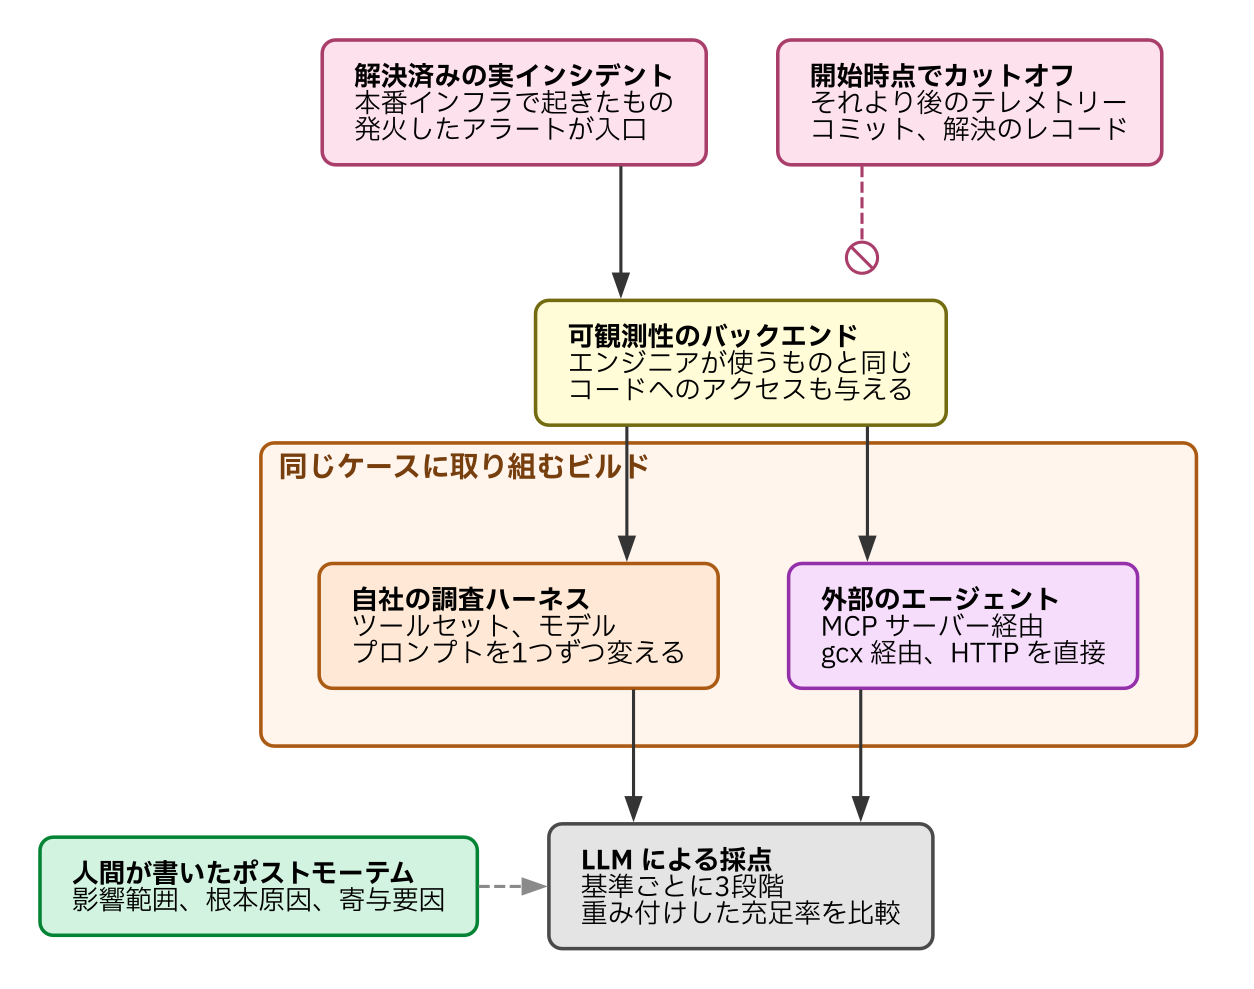
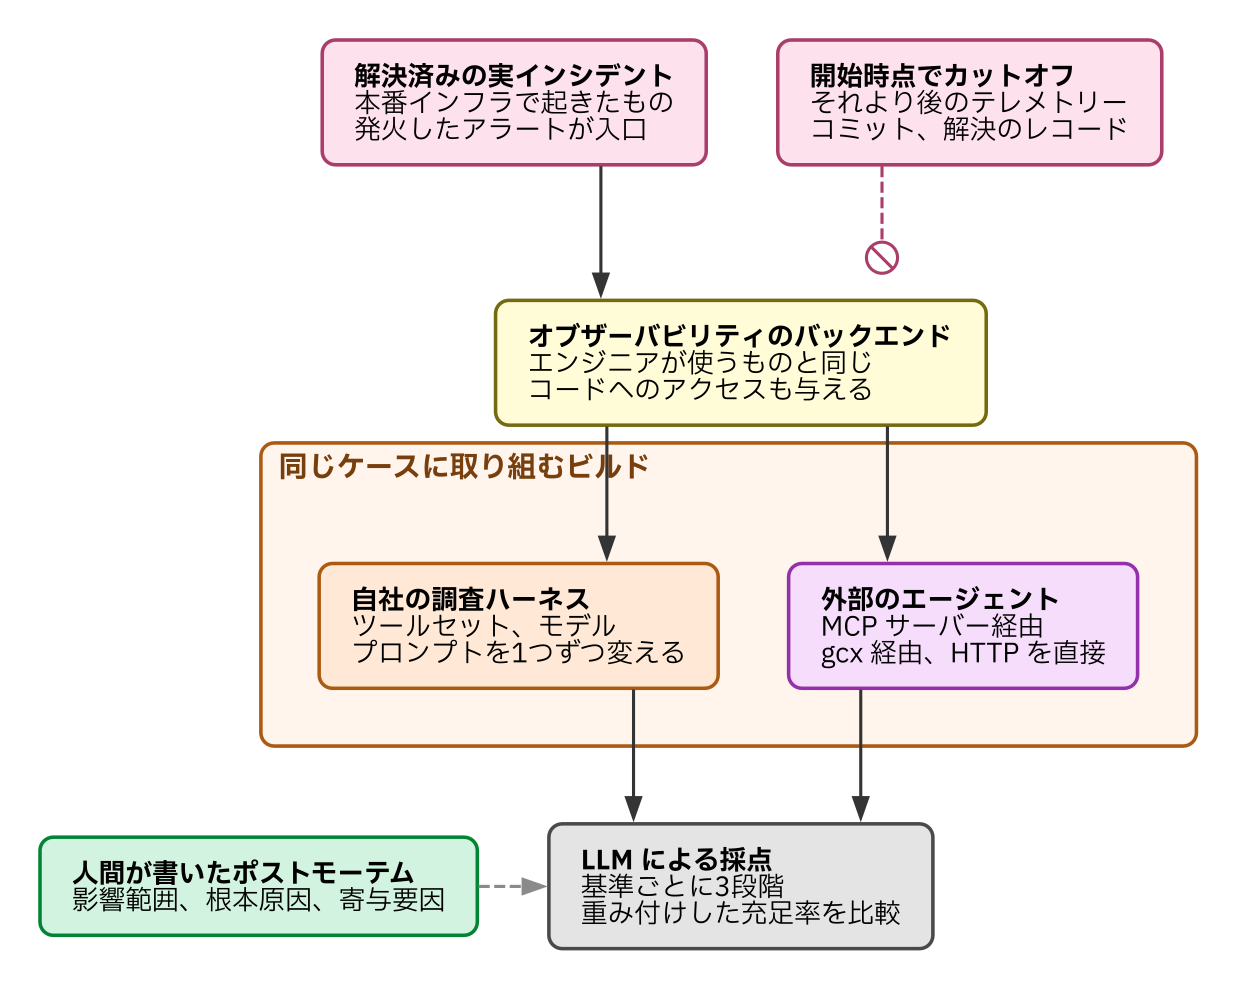
fix(articles): タイトルを技術領域が分かる形に変え語彙と文体を直す
- タイトルを技術領域が分かる形へ:
  記事1「オブザーバビリティのAIエージェントをどう評価するか」
  記事2「インシデント調査エージェントの品質を動かしたのはツールとプロンプトだった」
- 語彙: 可観測性 → オブザーバビリティ（本文6件、図1件）
- 倒置法の除去: 「同じ問いを立てられます。振る舞いは保たれたか、と。」を
  「「振る舞いは保たれたか」と同じ問いを立てられます」へ。
  同種の「、と。」で終わる文3箇所も自然な文体へ
- ルーブリックに脚注で定義を追加

Changed region(s): [[0.3732, 0.182, 0.8086, 0.5763], [0.4665, 0.455, 0.5287, 0.5763]]

diff --git a/articles/20261002-what-made-agents-better.md b/articles/20261002-what-made-agents-better.md
@@ -1,5 +1,5 @@
 ---
-title: "品質を動かしたのはツールとプロンプトだった"
+title: "インシデント調査エージェントの品質を動かしたのはツールとプロンプトだった"
 emoji: "🔬"
 type: "tech"
 topics: ["AI", "Observability", "LLM", "grafana", "SRE"]
@@ -8,7 +8,7 @@ published: false
 
 ## この記事で扱うこと
 
-前編の[もっともらしい答えをどう疑うか](https://zenn.dev/ymotongpoo/articles/20260929-agent-eval-loop)では、AIエージェントの振る舞いを評価する仕組みの作り方を追いました。シナリオを仕様として別に置き、グレーダーが実際に何が起きたかを判定する。事実には構造的なチェックを、結論には意味的なチェックを。そして最後に未解決の難所として、環境の忠実度が残りました。シミュレーションが多すぎれば実際の失敗を見落とし、実環境の変動が多すぎればベンチマークがノイズだらけになる、という緊張です。
+前編の[オブザーバビリティのAIエージェントをどう評価するか](https://zenn.dev/ymotongpoo/articles/20260929-agent-eval-loop)では、AIエージェントの振る舞いを評価する仕組みの作り方を追いました。シナリオを仕様として別に置き、グレーダーが実際に何が起きたかを判定する。事実には構造的なチェックを、結論には意味的なチェックを。そして最後に未解決の難所として、環境の忠実度が残りました。シミュレーションが多すぎれば実際の失敗を見落とし、実環境の変動が多すぎればベンチマークがノイズだらけになる、という緊張です。
 
 この記事では、Grafana Assistant Investigations の開発チームが実インシデントを使った評価で何を改善したかを追います。この比較では、モデルの差し替えよりも、ツールとその使用を導くプロンプトの変更のほうが品質改善への寄与が大きかったと報告されています。
 
@@ -42,7 +42,7 @@ published: false
 
 この方式で反復した結果、社内の難しいインシデントの集合に対するスコアが1週間で52%から69%へ動きました。採点は複数の基準をLLMが判定したものです。なお記事は、スコアの改善それ自体よりもそれを生んだ方法のほうが重要だと述べており、実際に記事の大半は方法の説明に充てられています。
 
-ベンチマークの構成を見ておきます。題材は本番インフラで既に解決済みの実インシデントで、エンジニアが問い合わせるのと同じ可観測性のバックエンドを使います。エージェントには GitHub の MCP サーバーと GitHub CLI 経由でコードへのアクセスもあり、テレメトリーの変化をその背後にあるコミットやプルリクエストに結び付けられます。
+ベンチマークの構成を見ておきます。題材は本番インフラで既に解決済みの実インシデントで、エンジニアが問い合わせるのと同じオブザーバビリティのバックエンドを使います。エージェントには GitHub の MCP サーバーと GitHub CLI 経由でコードへのアクセスもあり、テレメトリーの変化をその背後にあるコミットやプルリクエストに結び付けられます。
 
 各テストケースは実際のインシデントレポートから作られます。入口となるプロンプトは発火したアラートから組み立て、採点の基準は人間が書いた分析から抽出します。基準が覆うのはポストモーテムで重要になる次元で、影響範囲、根本原因、寄与要因が挙げられています。インシデントレポートそのものが正解になります。
 
@@ -114,7 +114,7 @@ published: false
 
 ここまでは社内の実インシデントを使った評価です。次に、合成テレメトリーを含む別の公開ベンチマークで、推論設定ごとの掲載値を比べます。社内評価の結果を追試するものではありません。
 
-Grafana Labs は2026年4月に [o11y-bench](https://o11ybench.ai/) という可観測性タスクのベンチマークをオープンソースで公開しており、[リーダーボード](https://o11ybench.ai/leaderboard)も公開されています。[導入記事](https://grafana.com/blog/o11y-bench-open-benchmark-for-observability-agents/)によれば、こちらは合成のメトリクス、ログ、トレースを載せた Grafana の Docker コンテナに対して63のタスクを走らせる構成です。前節のアリーナが本番の解決済みインシデントとポストモーテムを使うのに対し、評価の設定そのものが異なります。
+Grafana Labs は2026年4月に [o11y-bench](https://o11ybench.ai/) というオブザーバビリティタスクのベンチマークをオープンソースで公開しており、[リーダーボード](https://o11ybench.ai/leaderboard)も公開されています。[導入記事](https://grafana.com/blog/o11y-bench-open-benchmark-for-observability-agents/)によれば、こちらは合成のメトリクス、ログ、トレースを載せた Grafana の Docker コンテナに対して63のタスクを走らせる構成です。前節のアリーナが本番の解決済みインシデントとポストモーテムを使うのに対し、評価の設定そのものが異なります。
 
 測り方を先に書きます。2026年9月12日にリーダーボードの表示を取得し、掲載されていた52件のモデル構成について指標を集計しました。以下の数値はいずれもサイト上の丸め済みの表示値であり、差はパーセントポイントです。相対的な増減率ではありません。ベンチマークの結果は更新され続けるので、この記事の数値はこの日の断面です。
 
@@ -226,13 +226,13 @@ registered tools
 
 *図3: 実線は公開するツールを組み立てる順序を表す。権限、可用性、エージェントのモードで登録ツールを絞ってから、2つの入口を公開する。grafana_exec は必要に応じて領域を探し、load でマニュアルを読んでから operation を実行する。破線は旧方式からの置き換えを表す。*
 
-この方式が失敗する条件も書かれています。プロンプトのトークンを減らしても、操作に辿り着くまでの探索が長くなれば失敗である、と。そのため追加のモデル呼び出し、最初の実操作までの時間、誤りからの修正率、発見にかかる費用、コンテキスト全体の増加も測っています。
+この方式が失敗する条件も書かれています。プロンプトのトークンを減らしても、操作に辿り着くまでの探索が長くなれば失敗である、と述べられています。そのため追加のモデル呼び出し、最初の実操作までの時間、誤りからの修正率、発見にかかる費用、コンテキスト全体の増加も測っています。
 
 Ward Bekker の [CLIs in the age of agents](https://medium.com/grafana-labs/clis-in-the-age-of-agents-how-we-designed-gcx-cdfca8954b30) にも、エージェントがツールを誤って使った観察と、その対策が記されています。gcx の出発点は社内のオフサイトでした。エンジニアが集まった部屋で、それぞれのAIエージェントを前世代の Grafana CLI に向けて放し、働かせてみたのです。
 
 観察された振る舞いが並んでいます。既に失敗したコマンドを再試行する。ヘルプを読む代わりに、存在しないフラグへ自信をもって手を伸ばす。そして自分自身のコンテキストウィンドウを出力で溢れさせ、ツールが単に教えてくれたはずのことを下手に再発見するためにトークンを燃やす。
 
-とくに分かりやすい例が引用されています。ダッシュボードを探すよう求められたエージェントが、こう応答しました。gcx CLI にはダッシュボードを検索するサブコマンドがないようなので、Grafana の HTTP API を直接問い合わせる、と。
+とくに分かりやすい例が引用されています。ダッシュボードを探すよう求められたエージェントが、gcx CLI にはダッシュボードを検索するサブコマンドがないようなので Grafana の HTTP API を直接問い合わせる、と応答したのです。
 
 そのコマンドは存在していました。`gcx dashboards search` がまさにそのエンドポイントを包んでいます。エージェントは存在しないと自信をもって宣言し、訓練データで馴染みのある生のAPIへ手を伸ばしました。そうすることで、CLIが代わりに処理してくれるはずのすべてを迂回したのです。
 
@@ -288,7 +288,7 @@ Ward Bekker の [CLIs in the age of agents](https://medium.com/grafana-labs/clis
 
 自分のエージェントで同じことを言おうとするなら、まず1つのタスクについて成功条件を書き、その条件を確かめる証拠を決めるところから始められます。保存された状態やクエリの結果で成果を確かめ、失敗したときはツール呼び出しの軌跡を読んで原因を調べる。前編で見たように、採点するのは結果であって経路ではありません。軌跡を読むのは、答えを裏付ける証拠があるかどうかと、失敗の理由を知るためです。
 
-評価の組み立て方そのものについては、前編の[もっともらしい答えをどう疑うか](https://zenn.dev/ymotongpoo/articles/20260929-agent-eval-loop)で扱っています。
+評価の組み立て方そのものについては、前編の[オブザーバビリティのAIエージェントをどう評価するか](https://zenn.dev/ymotongpoo/articles/20260929-agent-eval-loop)で扱っています。
 
 ## 出典
 
